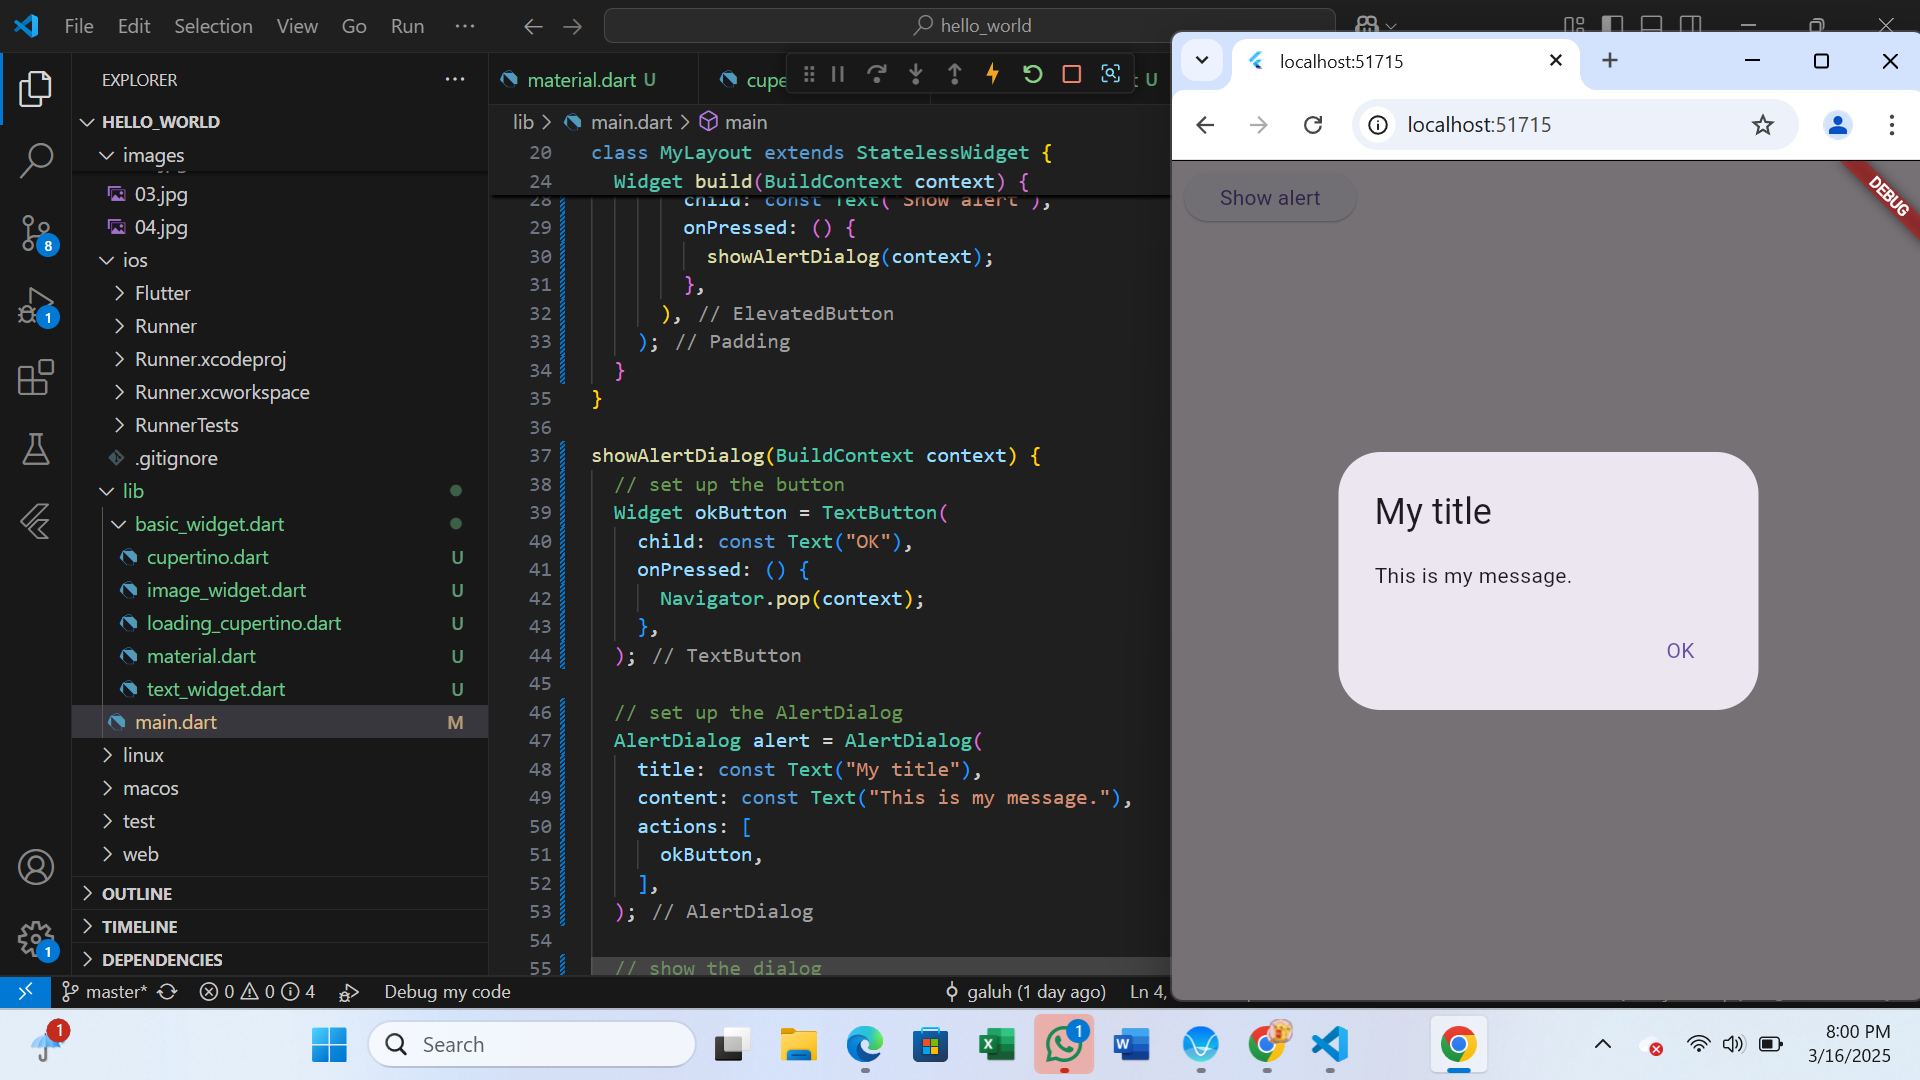
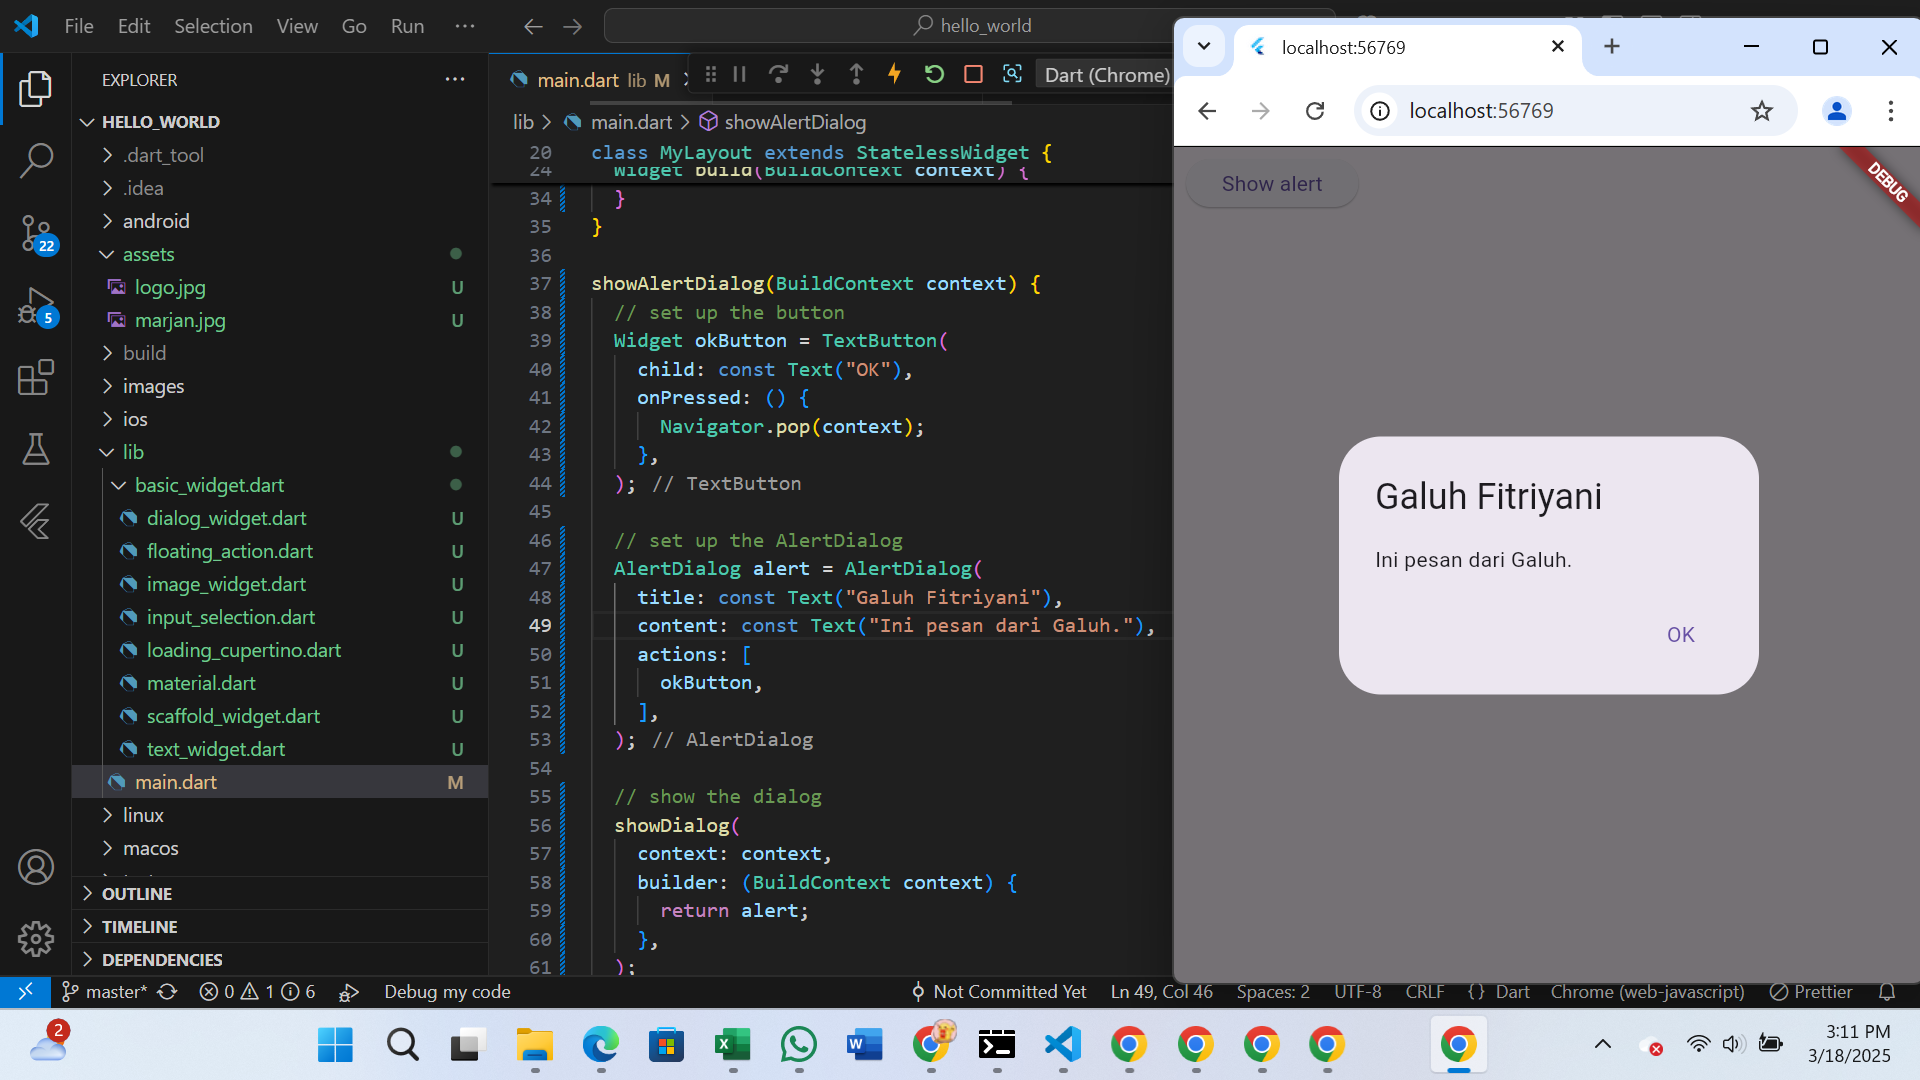
add lagi akhir

diff --git a/lib/main.dart b/lib/main.dart
@@ -1,4 +1,5 @@
 import 'package:flutter/material.dart';
+import 'package:hello_world/basic_widget.dart/text_widget.dart';
 
 void main() {
   runApp(const MyApp());
@@ -30,7 +31,7 @@ class MyApp extends StatelessWidget {
         // tested with just a hot reload.
         colorScheme: ColorScheme.fromSeed(seedColor: Colors.deepPurple),
       ),
-      home: const MyHomePage(title: 'Flutter Demo Home Page'),
+      home: const MyHomePage(title: 'Galuh FItriyani'),
     );
   }
 }
@@ -104,7 +105,7 @@ class _MyHomePageState extends State<MyHomePage> {
           // wireframe for each widget.
           mainAxisAlignment: MainAxisAlignment.center,
           children: <Widget>[
-            const Text('You have pushed the button this many times:'),
+            const MyTextWidget(),
             Text(
               '$_counter',
               style: Theme.of(context).textTheme.headlineMedium,

diff --git a/lib/basic_widget.dart/loading_cupertino.dart b/lib/basic_widget.dart/loading_cupertino.dart
@@ -1,0 +1,27 @@
+import 'package:flutter/material.dart';
+import 'package:flutter/cupertino.dart';
+
+class MyWidgetCupertino extends StatelessWidget {
+  const MyWidgetCupertino({super.key});
+
+  @override
+  Widget build(BuildContext context) {
+    return MaterialApp(
+      home: Container(
+        margin: const EdgeInsets.only(top: 30),
+        color: Colors.white,
+        child: Column(
+          children: <Widget>[
+            CupertinoButton(
+              child: const Text("Contoh button"),
+              onPressed: () {},
+            ),
+            const CupertinoActivityIndicator(),
+          ],
+        ),
+      ),
+    );
+
+
+  }
+}

diff --git a/lib/basic_widget.dart/floating_action.dart b/lib/basic_widget.dart/floating_action.dart
@@ -1,0 +1,23 @@
+import 'package:flutter/material.dart';
+
+class WidgetGaluh extends StatelessWidget {
+  const WidgetGaluh({super.key});
+
+  @override
+  Widget build(BuildContext context) {
+    return MaterialApp(
+        home: Scaffold(
+  appBar: AppBar(title: Text("Galuh Fitriyani")),
+  body: Center(child: Text("Halo, Flutter!")),
+  floatingActionButton: FloatingActionButton(
+    onPressed: () {
+      // Add your onPressed code here!
+    },
+    child: const Icon(Icons.thumb_up),
+    backgroundColor: Colors.pink,
+  ),
+),
+    );
+
+  }
+}

diff --git a/lib/basic_widget.dart/text_widget.dart b/lib/basic_widget.dart/text_widget.dart
@@ -1,0 +1,14 @@
+import 'package:flutter/material.dart';
+
+class MyTextWidget extends StatelessWidget {
+  const MyTextWidget({Key? key}) : super(key: key);
+
+  @override
+  Widget build(BuildContext context) {
+    return const Text(
+      "Nama saya Galuh Fitriyani, sedang belajar Pemrograman Mobile",
+      style: TextStyle(color: Colors.red, fontSize: 14),
+      textAlign: TextAlign.center);
+  }
+}
+

diff --git a/lib/basic_widget.dart/image_widget.dart b/lib/basic_widget.dart/image_widget.dart
@@ -1,0 +1,13 @@
+import 'package:flutter/material.dart';
+
+class MyImageWidget extends StatelessWidget {
+  const MyImageWidget({Key? key}) : super(key: key);
+
+  @override
+  Widget build(BuildContext context) {
+    return const Image(
+      image: AssetImage('logo.jpg')
+    );
+  }
+}
+

diff --git a/lib/basic_widget.dart/input_selection.dart b/lib/basic_widget.dart/input_selection.dart
@@ -1,0 +1,1 @@
+import 'package:flutter/material.dart';

diff --git a/README.md b/README.md
@@ -3,6 +3,8 @@
 Galuh Fitriyani
 230444040012
 
+Gambar berupa hasil web chrome dan device android
+
 A new Flutter project.
 
 Praktikum1
@@ -10,23 +12,36 @@ membuat project flutter baru dengan menekan CTRL + SHIFT + P, lalu berikan nama 
 ![Screenshot Praktikum 1](images/pk1.png)
 praktikum 2
 menampilkan gambar hasil capture di perangkat android saya, bukti bahwa sudah terhubung
-![Screenshot Praktikum 2](images/pk2.jpg)
+![Screenshot Praktikum 2](images/ss1.jpg)
 Praktikum3
-menampilkan gambar bahwa project berhasil di running pada web browser (chrome)
-![Screenshot Praktikum 3](images/01.jpg)
+menampilkan gambar bahwa project berhasil di running pada web browser (chrome) dan device android
+![Screenshot Praktikum 3](images/pk3.png)
+![Screenshot Praktikum 3](images/ss1.jpg) 
 Praktikum 4
 mengubah isi widget atau isi textwidget
-![Screenshot Praktikum 4](images/02.jpg)
+![Screenshot Praktikum 4](images/pk4.png)
+![Screenshot Praktikum 4](images/ss2.jpg) 
 memberikan gambar pada isi widget
-![Screenshot Praktikum 4](images/03.jpg)
+![Screenshot Praktikum 4](images/pk4lk2.png)
+saya tidak mengerti mengapa di device tidak muncul gambar padahal di browser muncul, sudah saya cari permasalahan nya pun tetap tidak mau  muncul gambar nya
+![Screenshot Praktikum 4](images/ss3.jpg)
 Praktikum 5
-mengubah isi widget menjadi tampilan loading
-![Screenshoot Praktikum 5](images/04.jpg)
+mengubah isi widget menjadi tampilan loading pada web dan device android
+![Screenshoot Praktikum 5](images/pk5lk1.png)
+![Screenshoot Praktikum 5](images/ss4.jpg)
+Untuk bagian ini saya masih belum terlalu mengerti bagaimana code nya yang benar sehingga menghasilkan hasil akhir seperti ini, sudah saya search browser dan mengikuti intruksi di browser pun tetap tidak mau berubah
+![Screenshoot Praktikum 5](images/pk5lk2.png)
+![Screenshoot Praktikum 5](images/ss5.jpg)
 mengubah isi widget menjadi terdapat tombol plus dibagian bawah widget
 ![Screenshoot Praktikum 5](images/pk5lk3.png)
+![Screenshoot Praktikum 5](images/ss6.jpg)
 mengubah isi widget dan menampilkan tombol "show alert" ketika tombol tersebut di klik akan menampilkan pesan melayang
 ![Screenshoot Praktikum 5](images/pk5lk4.png)
+![Screenshoot Praktikum 5](images/ss7.jpg)
 mengubah isi widget dengan menampilkan kolom yang dapat diisi dengan text apa saja
 ![Screenshoot Praktikum 5](images/pk5lk5.png)
+![Screenshoot Praktikum 5](images/ss8.jpg)
 mengubah isi widget dengan tampilan tanggal dan tombol yang ketika di klik muncul kalender
 ![Screenshoot Praktikum 5](images/pk5lk6.png)
+![Screenshoot Praktikum 5](images/ss9.jpg)
+![Screenshoot Praktikum 5](images/ss10.jpg)
